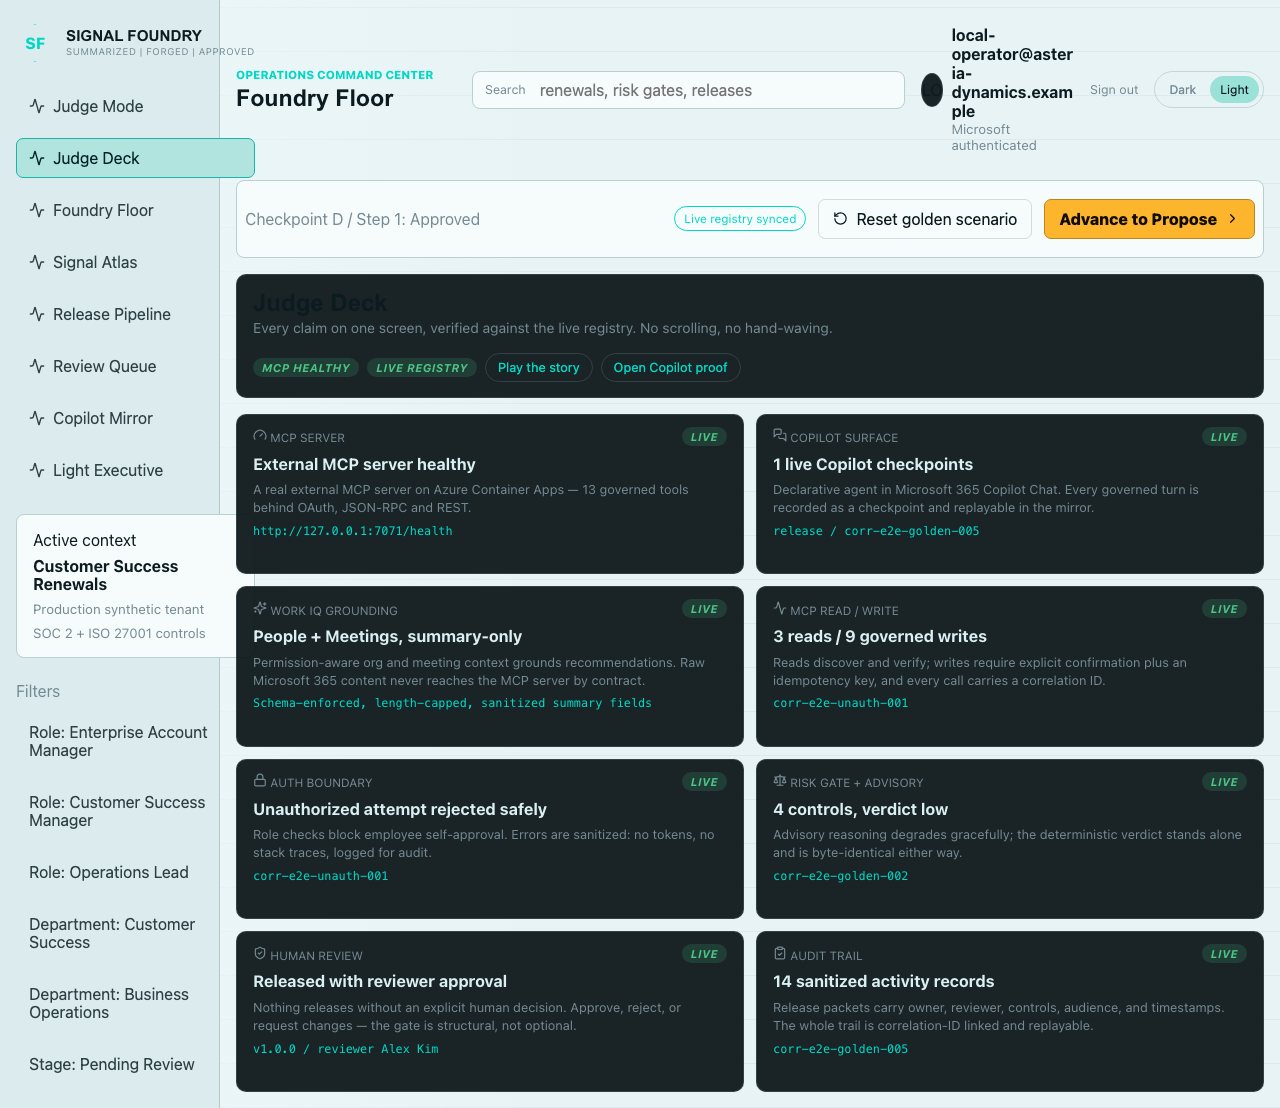
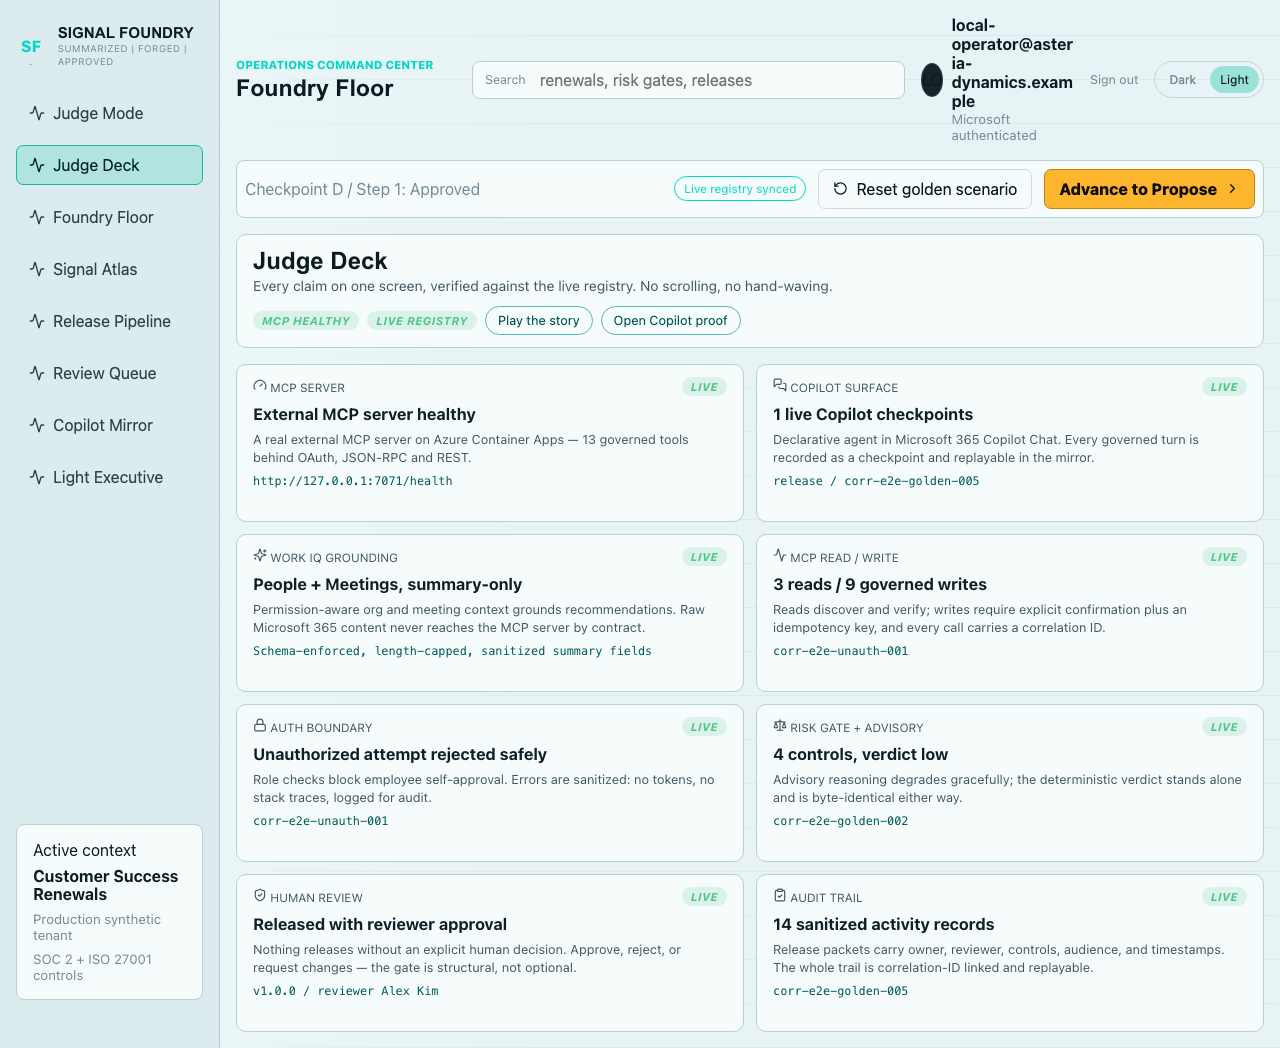
Fix rail containment, deck light mode, view stickiness, filter scoping
Left rail clips its content so the active highlight and tagline stay
inside the column; Judge Deck gets full light-mode styling; advancing or
resetting the story no longer yanks the user off the Judge Deck; the
filter stack renders only on views where filtering applies.

diff --git a/apps/foundry-floor/src/App.tsx b/apps/foundry-floor/src/App.tsx
@@ -73,7 +73,7 @@ function useDemoState(baseRecords: readonly Capability[]) {
       const next = step >= judgeStages.length - 1 ? 0 : step + 1;
       const target = recordForStage(next, records);
       setSelectedId(target.id);
-      setActiveView("judge");
+      setActiveView((view) => (view === "deck" ? view : "judge"));
       return next;
     });
   }
@@ -81,7 +81,7 @@ function useDemoState(baseRecords: readonly Capability[]) {
   function resetDemo() {
     setSelectedId(records[0]?.id ?? firstCapability.id);
     setDemoStep(0);
-    setActiveView("judge");
+    setActiveView((view) => (view === "deck" ? view : "judge"));
     setStatusOverrides({});
     setDecisionState("pending");
   }
@@ -90,7 +90,7 @@ function useDemoState(baseRecords: readonly Capability[]) {
     const boundedStage = Math.max(0, Math.min(stageIndex, judgeStages.length - 1));
     setDemoStep(boundedStage);
     setSelectedId(recordForStage(boundedStage, records).id);
-    setActiveView("judge");
+    setActiveView((view) => (view === "deck" ? view : "judge"));
   }
 
   function setSelectedStatus(status: CapabilityStatus) {
@@ -111,7 +111,7 @@ function useDemoState(baseRecords: readonly Capability[]) {
     setSelectedStatus("released");
     setDecisionState("released");
     setDemoStep(judgeStages.length - 1);
-    setActiveView("judge");
+    setActiveView((view) => (view === "deck" ? view : "judge"));
   }
 
   return {

diff --git a/apps/foundry-floor/src/judge.css b/apps/foundry-floor/src/judge.css
@@ -456,3 +456,39 @@
     grid-template-columns: minmax(0, 1fr);
   }
 }
+
+
+/* Light-mode parity for Judge Deck */
+.light-mode .deck-header,
+.light-mode .deck-card {
+  background: oklch(0.985 0.006 205);
+  border-color: oklch(0.84 0.026 210);
+}
+
+.light-mode .deck-card strong {
+  color: oklch(0.23 0.026 220);
+}
+
+.light-mode .deck-card p,
+.light-mode .deck-card header span,
+.light-mode .deck-header .deck-sub {
+  color: oklch(0.45 0.03 220);
+}
+
+.light-mode .deck-card code {
+  color: oklch(0.42 0.1 190);
+}
+
+.light-mode .deck-meta .deck-link {
+  border-color: oklch(0.72 0.09 190);
+  color: oklch(0.4 0.1 195);
+}
+
+.light-mode .deck-status.demo {
+  background: oklch(0.9 0.012 210);
+  color: oklch(0.42 0.03 220);
+}
+
+.light-mode .proof-rail article .proof-context {
+  color: oklch(0.45 0.03 220);
+}

diff --git a/apps/foundry-floor/src/styles.css b/apps/foundry-floor/src/styles.css
@@ -545,7 +545,15 @@ nav button.active,
 }
 
 
-/* Brand lockup: stacked name + tagline, no inline collision in the left rail */
+/* Brand lockup: stacked name + tagline, contained inside the rail */
+.left-rail {
+  min-width: 0;
+  overflow: hidden;
+}
+.left-rail nav button {
+  min-width: 0;
+  width: 100%;
+}
 .brand-lockup > div {
   display: grid;
   gap: 2px;
@@ -555,11 +563,9 @@ nav button.active,
   display: block;
   font-size: 0.95rem;
   line-height: 1.12;
-  white-space: nowrap;
 }
 .brand-lockup small {
   font-size: 0.6rem;
   letter-spacing: 0.05em;
-  line-height: 1.3;
-  white-space: nowrap;
+  line-height: 1.35;
 }

diff --git a/apps/foundry-floor/src/panels.tsx b/apps/foundry-floor/src/panels.tsx
@@ -86,6 +86,7 @@ export function LeftRail({
         <small>Production synthetic tenant</small>
         <small>SOC 2 + ISO 27001 controls</small>
       </div>
+      {["floor", "atlas", "pipeline", "review"].includes(activeView) ? (
       <div className="filter-stack">
         <span>Filters</span>
         {roles.map((role) => (
@@ -119,6 +120,7 @@ export function LeftRail({
           Stage: Pending Review
         </button>
       </div>
+      ) : null}
     </aside>
   );
 }
